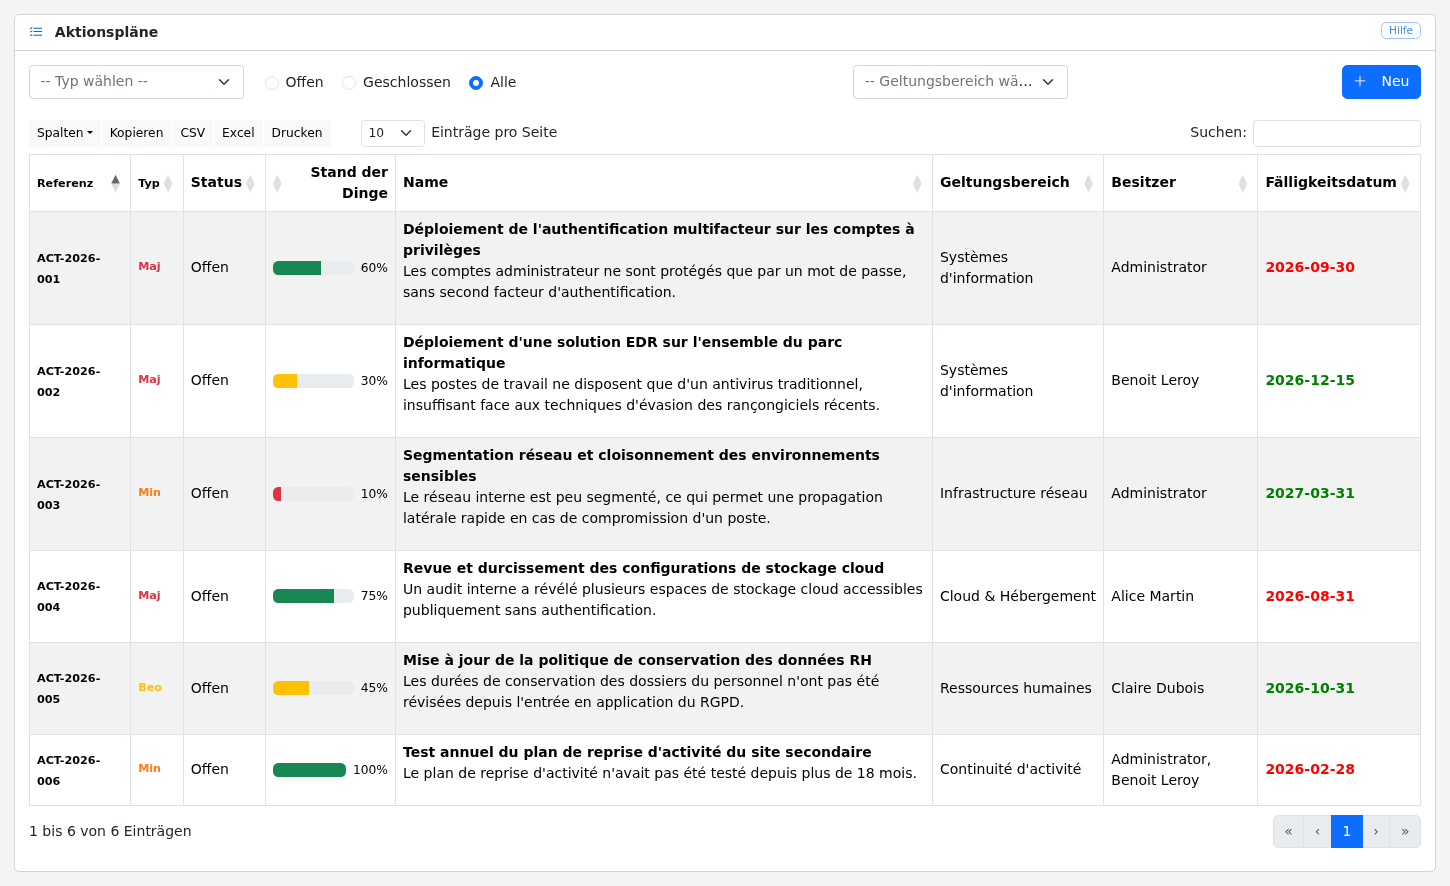
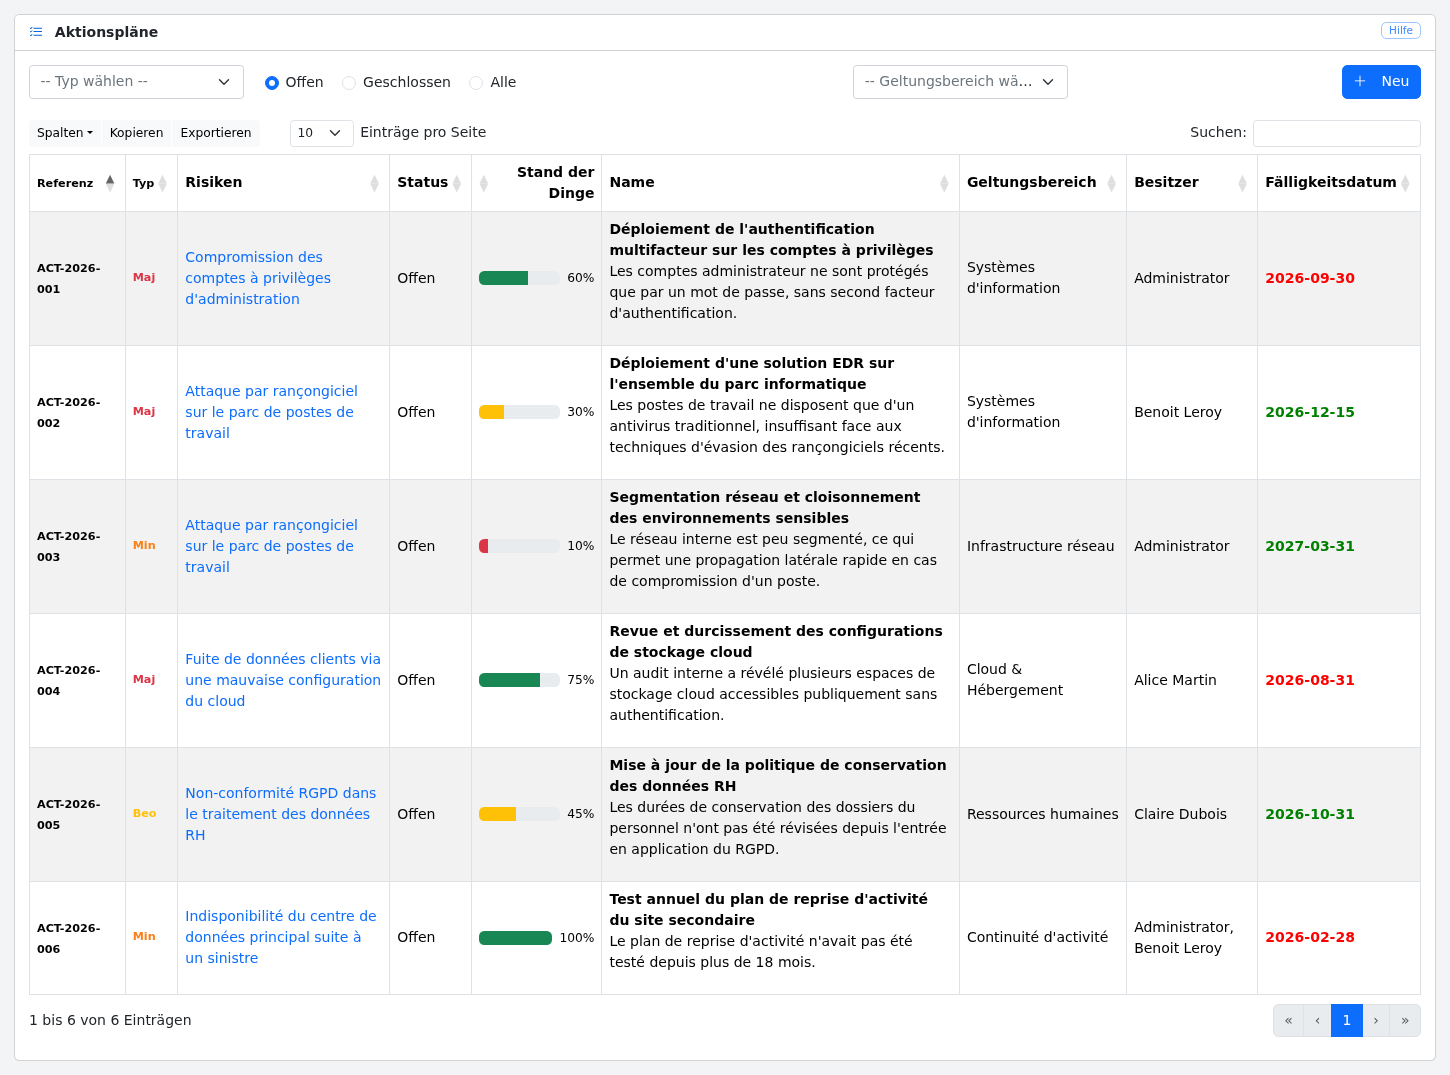
Add a column with the associated risks to the action plans list
Retake the action plans list screenshot in English, French and German.

diff --git a/resources/views/actions/index.blade.php b/resources/views/actions/index.blade.php
@@ -80,6 +80,7 @@
             <th data-priority="2"><span style="font-size: 0.8em;">{{ trans('cruds.action.fields.reference') }}</span></th>
             <th><span style="font-size: 0.8em;">{{ trans('cruds.action.fields.type') }}</span></th>
             <th class="dt-hidden">{{ trans('cruds.action.fields.clauses') }}</th>
+            <th>{{ trans('cruds.action.fields.risks') }}</th>
             <th>{{ trans('cruds.action.fields.status') }}</th>
             <th>{{ trans('cruds.action.fields.progress') }}</th>
             <th data-priority="1">{{ trans('cruds.action.fields.name') }}</th>
@@ -111,6 +112,11 @@
             <td>
                 @foreach($action->controls as $control)
                     <a href="/alice/show/{{ $control->id }}">{{ $control->clause }}</a>{{ $loop->last ? '' : ',' }}
+                @endforeach
+            </td>
+            <td>
+                @foreach($action->risks as $risk)
+                    <a href="/risk/show/{{ $risk->id }}">{{ $risk->name }}</a>{{ $loop->last ? '' : ',' }}
                 @endforeach
             </td>
             <td id="{{ $action->status }}">

diff --git a/app/Http/Controllers/ActionController.php b/app/Http/Controllers/ActionController.php
@@ -148,11 +148,21 @@ class ActionController extends Controller
             ->get(['action_control.action_id', 'controls.id', 'controls.clause'])
             ->groupBy('action_id');
 
+        // Fetch risks for all actions in one query
+        $risksByActionId = DB::table('action_risk')
+            ->join('risks', 'risks.id', '=', 'action_risk.risk_id')
+            ->whereIn('action_risk.action_id', $actions->pluck('id'))
+            ->orderBy('risks.name')
+            ->get(['action_risk.action_id', 'risks.id', 'risks.name'])
+            ->groupBy('action_id');
+
         foreach ($actions as $action) {
             $action->owners = $ownersByActionId
                 ->get($action->id, collect())
                 ->pluck('name');
             $action->controls = $controlsByActionId
+                ->get($action->id, collect());
+            $action->risks = $risksByActionId
                 ->get($action->id, collect());
         }
 

diff --git a/resources/lang/fr/cruds.php b/resources/lang/fr/cruds.php
@@ -38,6 +38,7 @@ return [
             'criticity' => 'Criticité',
             'cause' => 'Cause',
             'clauses' => 'Clauses',
+            'risks' => 'Risques',
             'owners' => 'Responsables',
             'status_open' => 'Ouvert',
             'status_closed' => 'Fermé',

diff --git a/resources/lang/de/cruds.php b/resources/lang/de/cruds.php
@@ -38,6 +38,7 @@ return [
             'criticity' => 'Kritikalität',
             'cause' => 'Ursache',
             'clauses' => 'Klauseln',
+            'risks' => 'Risiken',
             'owners' => 'Besitzer',
             'status' => 'Status',
             'status_open' => 'Offen',

diff --git a/resources/lang/en/cruds.php b/resources/lang/en/cruds.php
@@ -19,6 +19,7 @@ return [
          'close' => 'Close an action',
          'fields' => [
             'clauses' => 'Clauses',
+            'risks' => 'Risks',
             'name' => 'Name',
             'scope' => 'Scope',
             'action' => 'Action plan',
